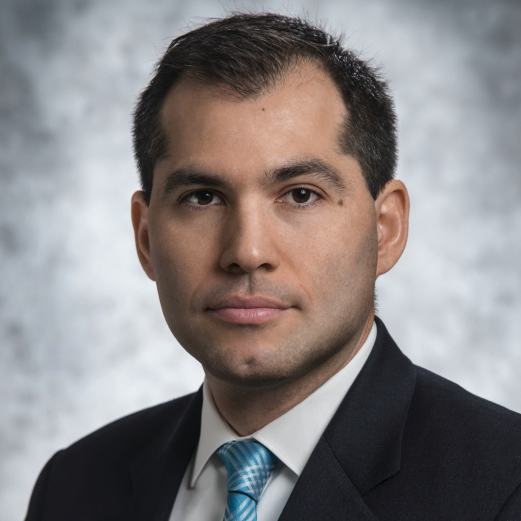
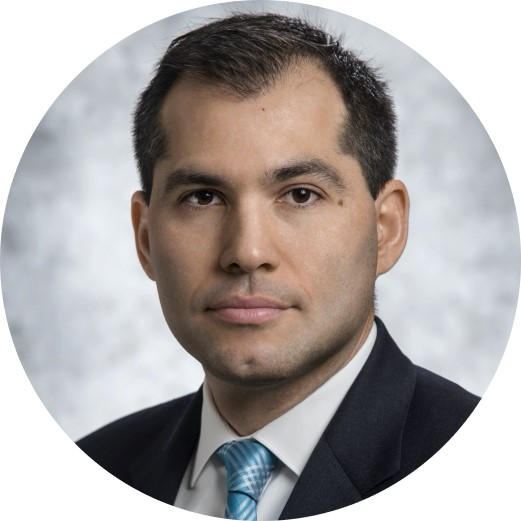
update

diff --git a/energy/APG_energy_1.html b/energy/APG_energy_1.html
@@ -45,7 +45,7 @@ agency_dir: energy
                 </td>
             </tr>
             <tr>
-                <td width="17%" align="center"><img src="Gonzales-Harsha.jpg" alt="Marcos Gonzales Harsha headshot"  class="round-headshot"></td>
+                <td width="17%" align="center"><img src="{{site.baseurl}}/energy/Gonzales-Harsha.jpg" alt="Marcos Gonzales Harsha headshot"  c></td>
                 <td width="83%" align="left">Marcos Gonzales Harsha, Principal Deputy Director, Office of Technology Transitions</td>
             </tr>
         </table>

diff --git a/about/APG_about.html b/about/APG_about.html
@@ -48,7 +48,7 @@ agency_dir: about
   <a href="../agriculture/APG_agriculture_1.html">Department of Agriculture</a>
 </li>
 <li>
-  <a href="../commerce/APG_commerce_1.html">Department of Commerce</a>
+  <a href="../commerce/APG_commerce_2.html">Department of Commerce</a>
 </li>
 <li>
   <a href="../defense/APG_defense_1.html">Department of Defense</a>
